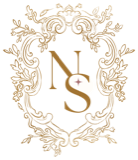
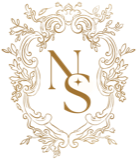
Monogramme rendu depuis le SVG, plus net

Changed region(s): [[0.0, 0.0, 0.9927, 1.0], [0.3504, 0.3125, 0.438, 0.5625]]

diff --git a/index.html b/index.html
@@ -10,7 +10,7 @@
 <link rel="preconnect" href="https://fonts.googleapis.com">
 <link rel="preconnect" href="https://fonts.gstatic.com" crossorigin>
 <link rel="stylesheet" href="https://fonts.googleapis.com/css2?family=Cormorant+Garamond:ital,wght@0,300;0,400;0,500;1,300;1,400&family=Source+Sans+3:wght@300;400;500;600&display=swap">
-<link rel="stylesheet" href="css/style.css?v=202610191619">
+<link rel="stylesheet" href="css/style.css?v=202610191620">
 </head>
 <body>
 <svg width="0" height="0" style="position:absolute" aria-hidden="true">
@@ -45,7 +45,7 @@
   <section class="hero">
    <div class="inner hero-in">
     <div>
-      <img class="mono-l" src="assets/monogramme.png" alt="" width="690" height="800">
+      <img class="mono-l" src="assets/monogramme.png" alt="" width="689" height="800">
       <h1>Séphora Nowicki</h1>
       <p class="sub" data-i18n="hero_sub">Administratrice de ventes aux enchères à Paris</p>
       <p class="lead" data-i18n="hero_p">Du premier contact à la finalisation de la vente, je prends soin de vos objets pour que leur passage en salle soit fluide, de bout en bout.</p>
@@ -268,7 +268,7 @@
 
   <!-- ===================== MES HOBBIES ===================== -->
   <section class="souffle" aria-hidden="true">
-    <img class="mono-m" src="assets/monogramme.png" alt="" width="690" height="800" loading="lazy">
+    <img class="mono-m" src="assets/monogramme.png" alt="" width="689" height="800" loading="lazy">
   </section>
 
   <section class="velours" id="hobbies">
@@ -314,7 +314,7 @@
 
 </main>
 
-<script src="js/i18n.js?v=202610191619"></script>
-<script src="js/main.js?v=202610191619"></script>
+<script src="js/i18n.js?v=202610191620"></script>
+<script src="js/main.js?v=202610191620"></script>
 </body>
 </html>

diff --git a/css/style.css b/css/style.css
@@ -61,7 +61,7 @@ h1,h2,h3{font-family:var(--f-titre);font-weight:400;line-height:1.1;text-wrap:pr
   padding:16px var(--gutter-r) 16px var(--gutter-l)}
 .top-l{font-family:var(--f-titre);font-size:1.3rem;color:var(--encre);text-decoration:none;display:flex;align-items:center;gap:10px}
 .mono-s{width:auto;height:38px;display:block}
-.mono-l{width:auto;height:150px;display:block;margin-bottom:22px;filter:brightness(1.3) saturate(1.1)}
+.mono-l{width:auto;height:150px;display:block;margin-bottom:22px;filter:brightness(1.12) saturate(.9)}
 .menu{display:flex;gap:26px;font-size:.95rem}
 .menu a{color:var(--encre-2);text-decoration:none}
 .menu a:hover,.menu a:focus-visible{color:var(--encre);outline:none;text-decoration:underline;text-underline-offset:4px}
